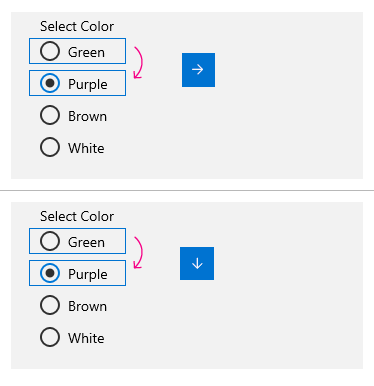
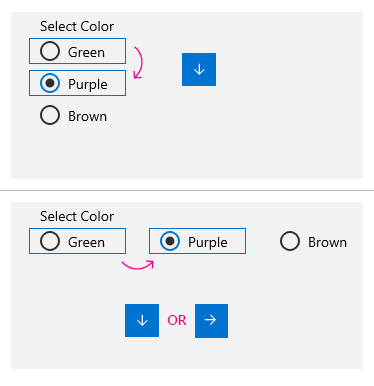
Updated visuals, implemented feedback
Updated visuals and added more information to reflect the feedback recieved from last checkpoint review.

diff --git a/active/radiobuttons/RadioButtons_Spec.md b/active/radiobuttons/RadioButtons_Spec.md
@@ -63,23 +63,6 @@ public sealed partial class MainPage : Page
 }
 ```
 
-## Multiple Columns
-Some groups of RadioButton elements may want a multi-column layout. This is an example on how to
-set that up.
-
-```xaml
-<muxc:RadioButtons Header="App Mode" MaxColumns="3">
-    <x:String>Column 1</x:String>
-    <x:String>Column 2</x:String>
-    <x:String>Column 3</x:String>
-    <x:String>Column 1</x:String>
-    <x:String>Column 2</x:String>
-    <x:String>Column 3</x:String>
-</muxc:RadioButtons>
-```
-
-![alt text](multicolumns.png)
-
 # Remarks
 The RadioButtons control has special navigation behavior that helps not only keyboard accelerant users, but also accessibility users to navigate the list more quickly and more easily.
 
@@ -110,21 +93,21 @@ When no RadioButton controls are selected in the RadioButtons list, focus is put
 ## Keyboard navigation
 When you have a single column list of RadioButton control options and you have already put focus onto an item, you can navigate the RadioButtons list in logical sequential order using the keyboard.
 
-- The down or right arrow keys will move to the "next" logical item
-- The up or left arrow keys will move to the "previous" logical item
+- The up or down arrow keys will move to the "next" or "previous" logical item (defined in markup)
+- The left or right arrow keys will move spatially
 
 ![alt text](keyboardnav_singlecol.png)
 
-## Multi-Column RadioButtons list
+This means that in purely vertical RadioButton group lists, left/right arrow keys will not do anything, but up/down will still navigate as expected. However, in purely horizontal RadioButton group lists, left and right will navigate the same way as up and down.
+
+>This behavior is defined more below when we discuss multi-column RadioButton group lists.
+
+## Vertical and horizontal RadioButton lists
 In instances where there is more that one column of RadioButton items within a single RadioButtons list control, the list will flow a column-major layout.
 
-|MaximumColumns not specified <br>OR<br> MaximumColumns = 1 |  MaximumColumns = 2 |
+|MaximumColumns not specified <br>OR<br> MaximumColumns = 1 |  MaximumColumns = 4 |
 |:--:|:--:|
 | ![alt text](singlecolumn_example.png) | ![alt text](multicolumn_example_1.png) |
-
-The markup remains almost the same, and is in the "logial" order that the keyboard behavior will navigate through is indicated in the markup.
-
-The only change is to the number of columns specified, which is defined in the ``MaximumColumns`` property.
 
 ```xml
 <RadioButtons Header="Select Number" MaximumColumns="2">
@@ -135,7 +118,11 @@ The only change is to the number of columns specified, which is defined in the `
 </RadioButtons>
 ```
 
-If you specify an odd number of items in the RadioButtons group list, or define an odd number for the way it's split (via ``MaximumColumns``) the group will put the trailing number in the first column, and divide the rest evenly.
+By default, the RadioButtons list will fill itself vertically, meaning if no ``MaximumColumns`` value is set, it will be assumed to be 1 and orient itself vertically.
+
+### Multiple columns (uncommon case)
+
+If you specify a ``MaxiumumColumns`` value that is not equal to the number of items in the RadioButtons list, the list will arrange  itself in column-major order and put any uneven/remaining items in the first column, in the case of an uneven ``MaximumColumns`` value or list items defined.
 
 |MaximumColumns = 3|
 |:--|
@@ -153,7 +140,7 @@ If you specify an odd number of items in the RadioButtons group list, or define 
 </RadioButtons>
 ```
 
-### Navigating with multiple columns
+#### Keyboard navigation with multiple columns
 The keyboarding behavior is the same as the single-column navigation, it just wraps to the next column when there is more than one defined.
 
 ![alt text](keyboardnav_multicol.png)
@@ -165,6 +152,15 @@ When you are navigating a RadioButtons list via the keyboard, as focus is placed
 |:--|:--|
 | ![alt text](2selected_nonav.png) | ![alt text](3selected_yesnav.png)|
 | Focus is on the "2" RadioButton, and it is shown as selected | The down or right arrow key has been pressed, so focus was moved to the "3" RadioButton, thus selected 3 and unselected 2. |
+
+## Narrator behavior
+
+Below is a detailed table of, depending on the user interaction, what the narrator is expected to say.
+
+|Upon *first* putting focus into the group | Navigating to a selected item |
+|:--|:--|
+| "Group name" RadioButton collection, x of N selected | RadioButton "name" selected, x of N |
+|"Group name" RadioButton collection control, none selected| RadioButton "name" not selected, x of N <br> *(If navigating with shift-arrow keys, meaning no selection following focus)* |
 
 ## No Wrapping
 The RadioButtons group does not wrap. This is because when using a screen reader, a sense of boundary and clear indication of ends versus beginnings is lost and thus making it difficult for vision accessible users to navigate the list easily. There is also no enumeration with a RadioButtons group, since groups like this are meant to have a resonable number of items within.
